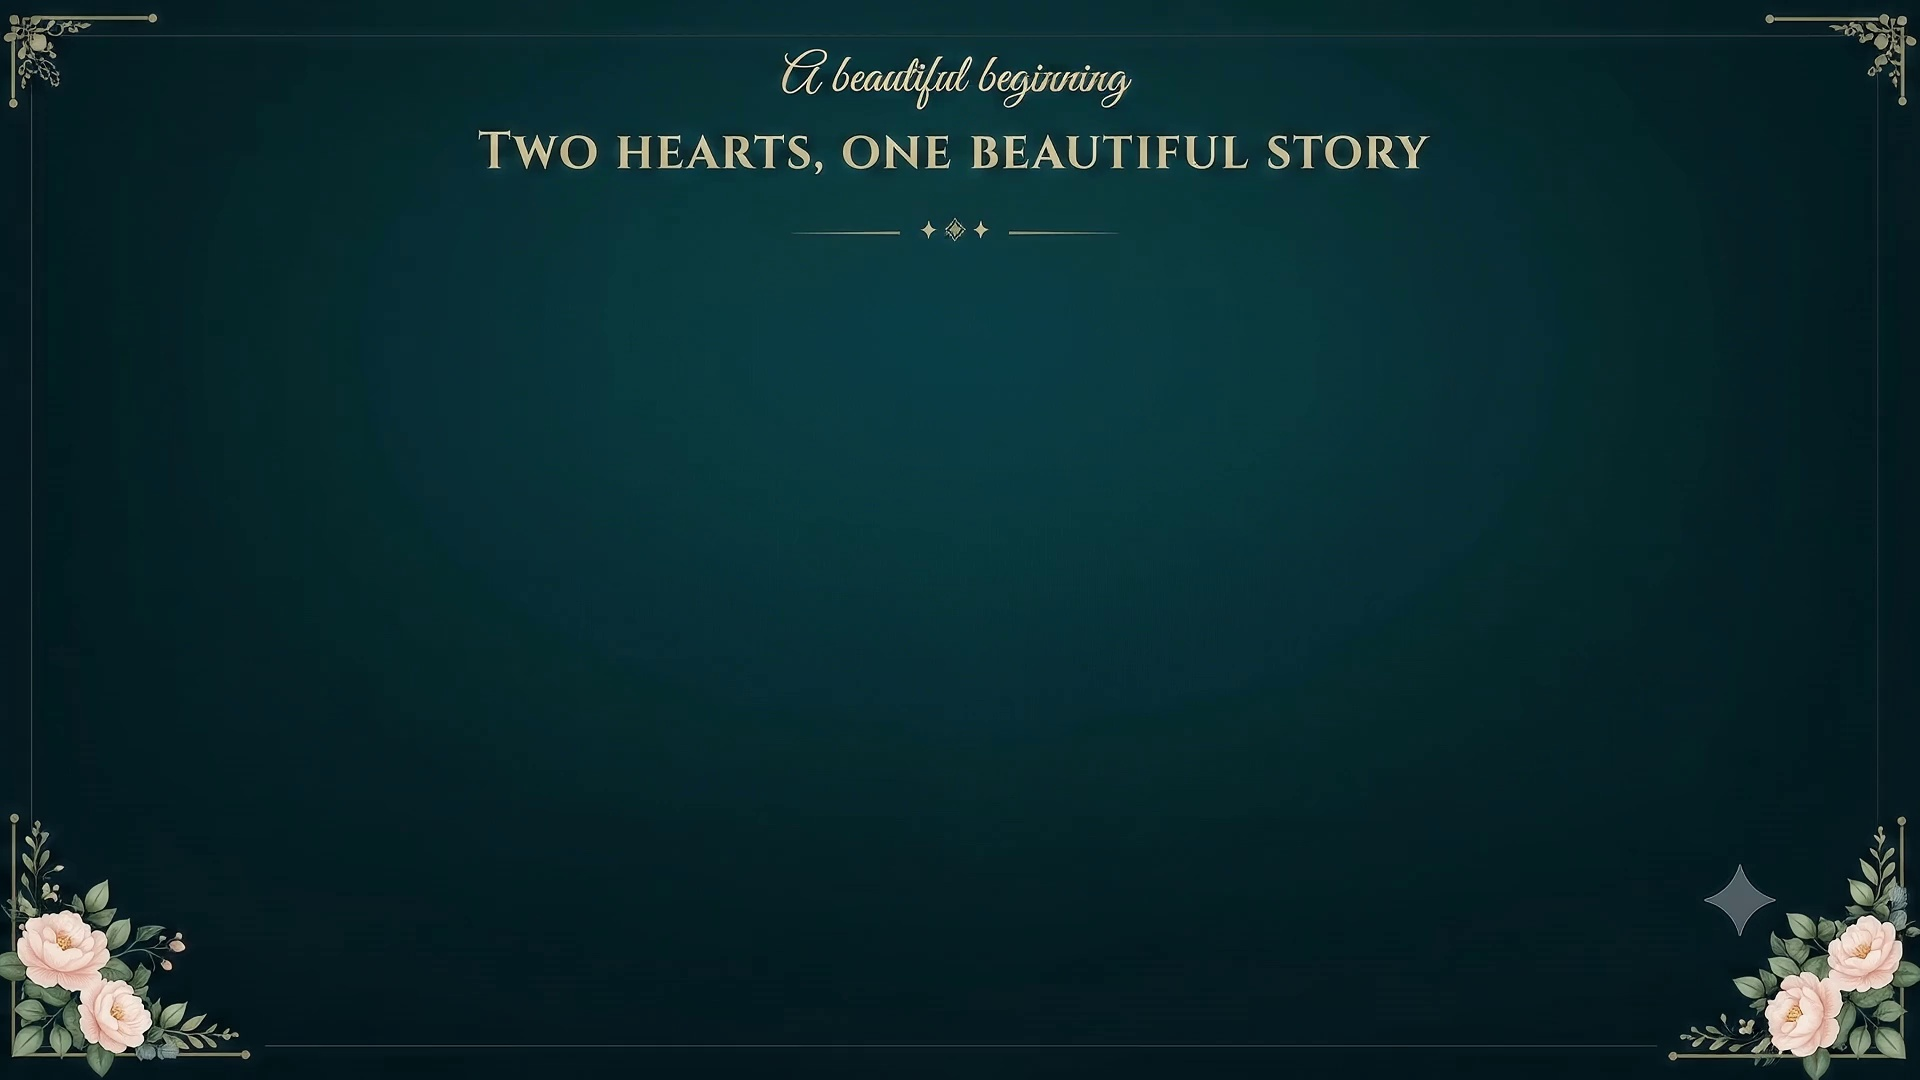
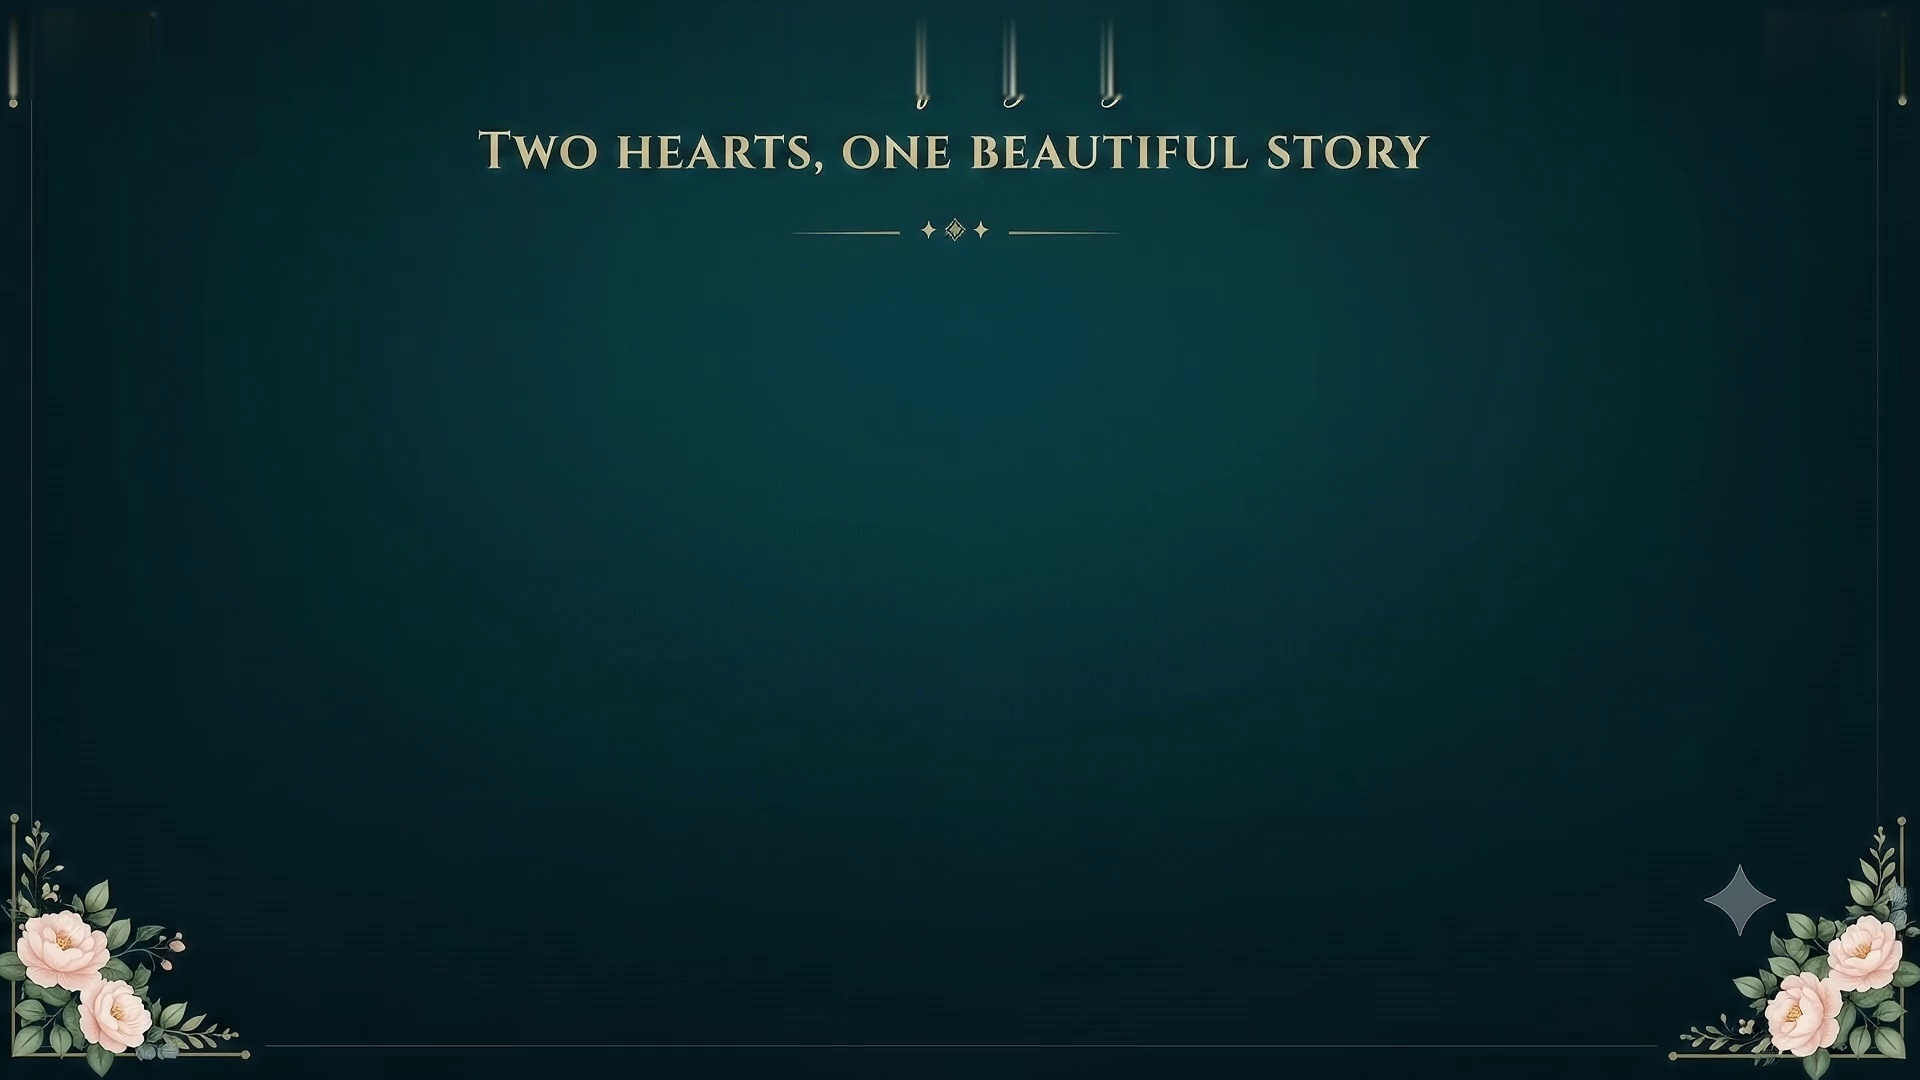
style: remove horizontal border line above 'A beautiful beginning' in couple section

Changed region(s): [[0.4062, 0.0306, 0.5938, 0.0917], [0.9062, 0.0, 1.0, 0.0917], [0.0, 0.0, 0.0625, 0.0917]]

diff --git a/components/CoupleSection.tsx b/components/CoupleSection.tsx
@@ -110,6 +110,17 @@ export default function CoupleSection({ active }: CoupleSectionProps) {
           Your browser does not support video playback.
         </video>
 
+        {/* Seamless top mask overlay to remove the line above "A beautiful beginning" */}
+        <div
+          className="absolute top-0 inset-x-0 h-[8.5%] sm:h-[9.2%] z-10 pointer-events-none select-none"
+          style={{
+            background: 'radial-gradient(ellipse 70% 120% at 50% 0%, #0a3d44 0%, #03252c 60%, #011b20 100%)',
+            maskImage: 'linear-gradient(to bottom, black 65%, transparent 100%)',
+            WebkitMaskImage: 'linear-gradient(to bottom, black 65%, transparent 100%)',
+          }}
+          aria-hidden="true"
+        />
+
         {/* =========================================================
             LEFT NAME: Directly & perfectly centered below "Bride"
             Appears promptly ("takunu") once couple stands in center
